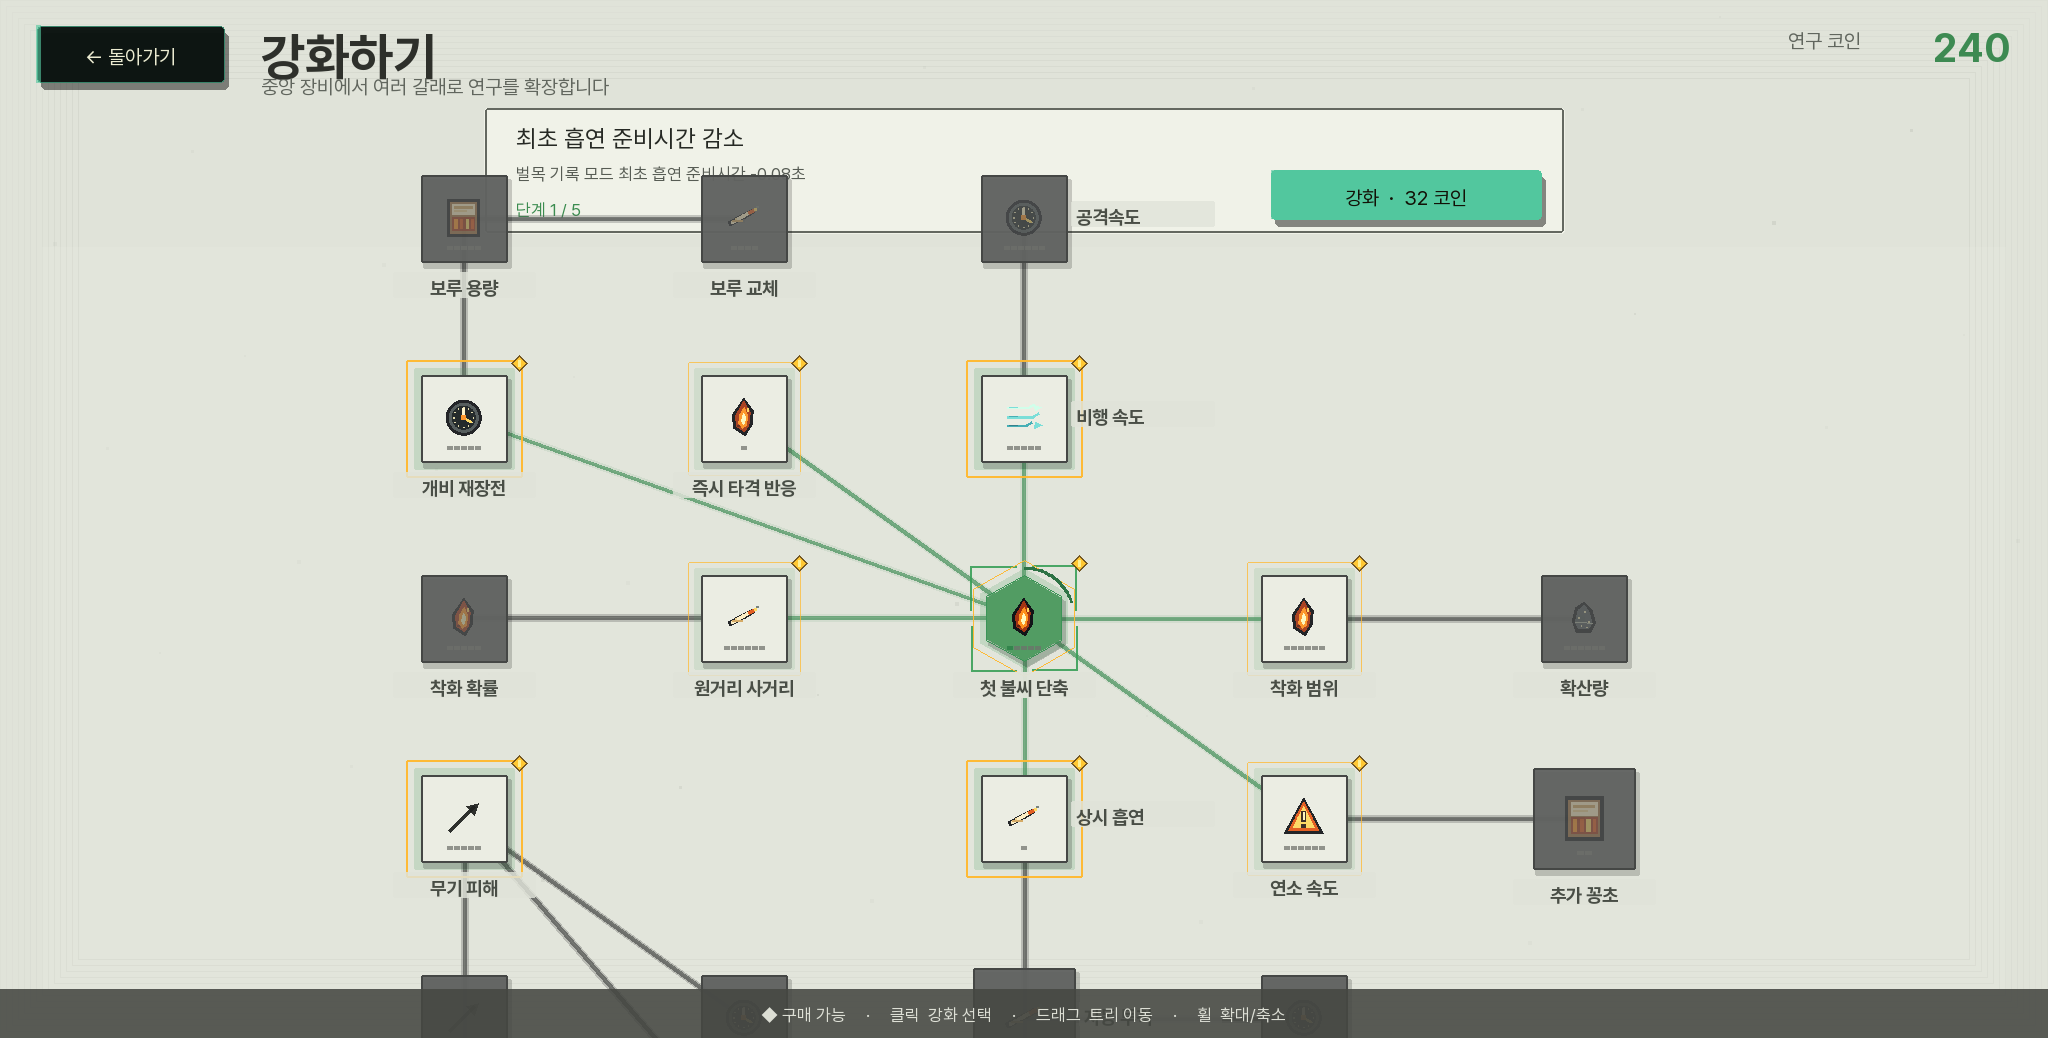
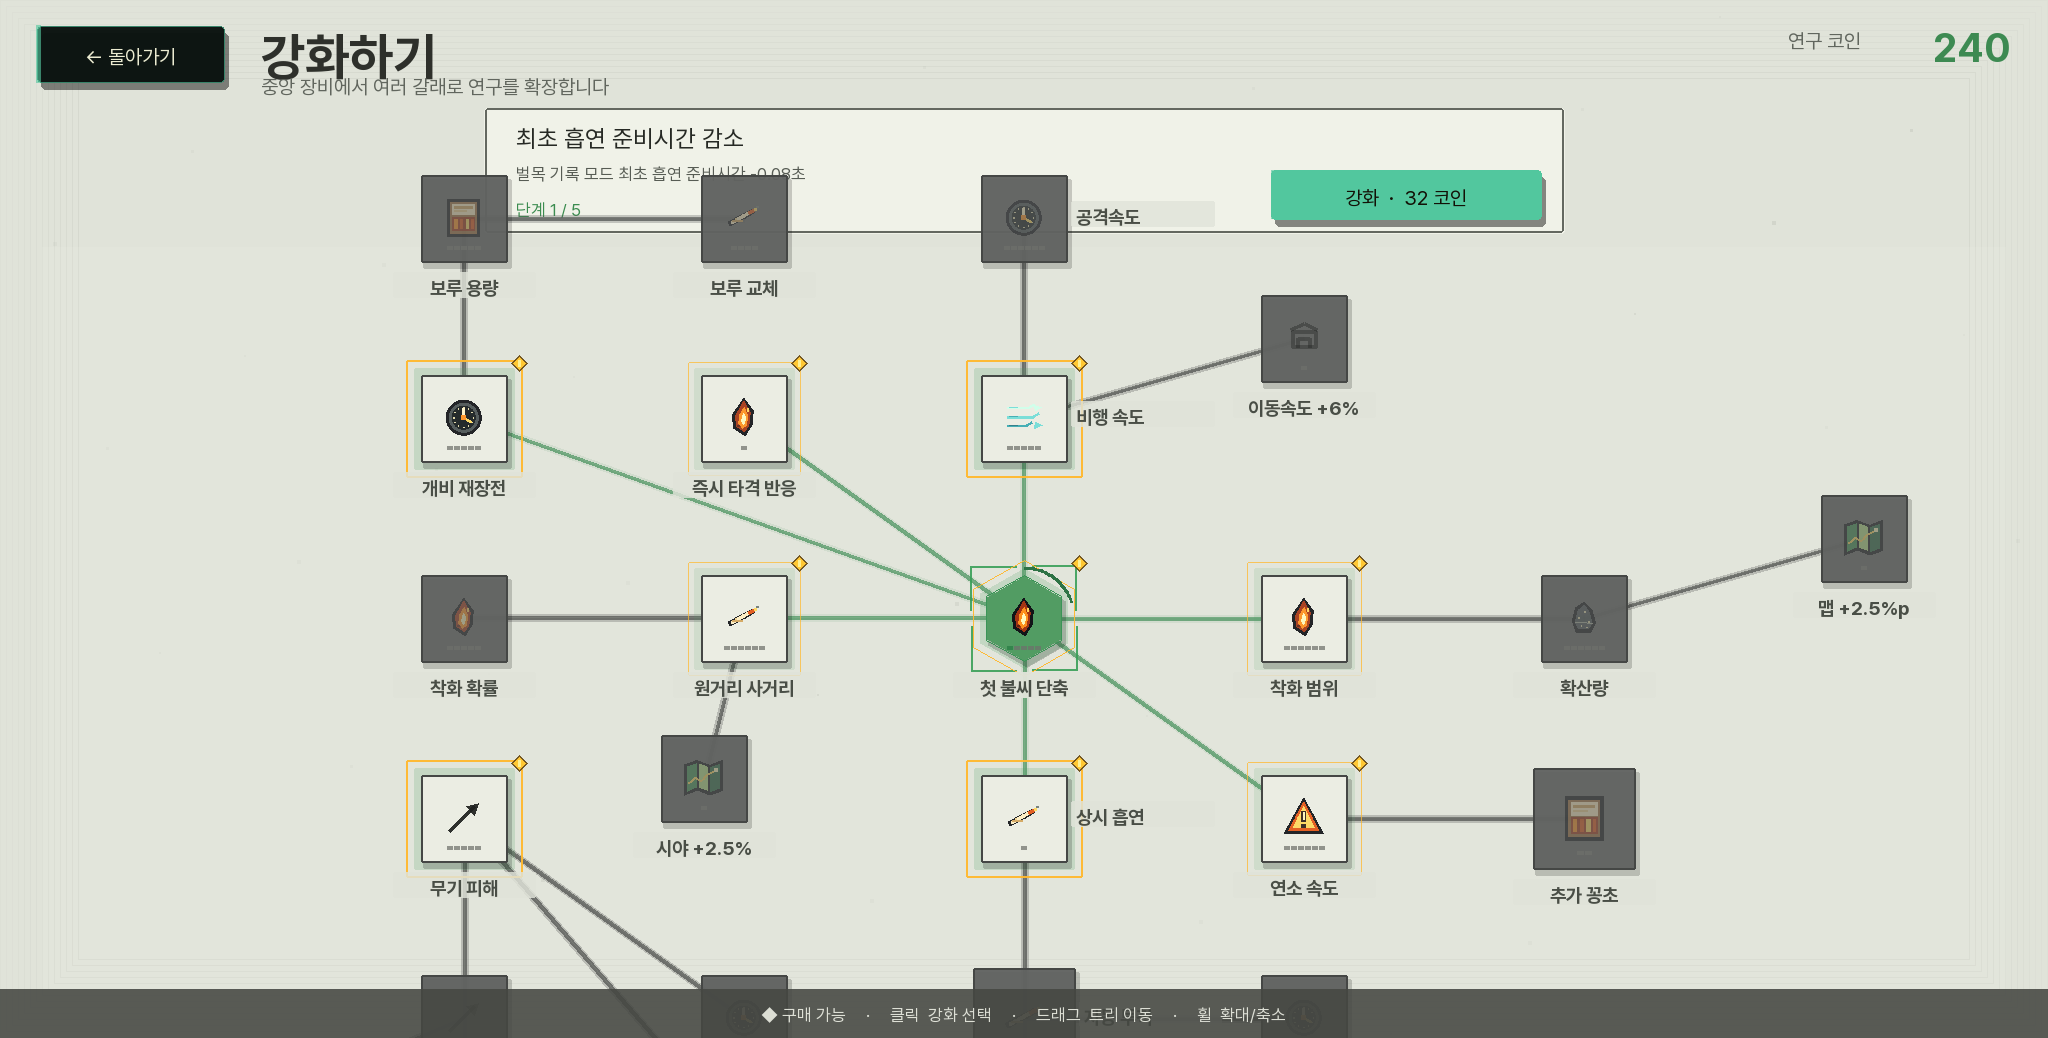
Distribute spatial upgrades across research tree

diff --git a/docs/character_dossier.html b/docs/character_dossier.html
@@ -507,13 +507,16 @@ const TRAITS = {
       {id:"fire_score_impact",name:"꽁초 즉시 타격 반응",short:"즉시 타격 반응",desc:"꽁초 착지 즉시 최근접 대상 1개를 점화하고 짧은 정지·반동·전용 타격음을 적용합니다.",max:1,costs:[32],requires:[["fire_score_prewarm",1]]},
       {id:"fire_score_alwayssmoke",name:"상시 흡연",short:"상시 흡연",desc:"근접 도끼질이나 폭죽 공격 중에도 담배 재장전이 계속됩니다.",max:1,costs:[200],requires:[["fire_score_prewarm",1]]},
       {id:"fire_score_filter",name:"원거리 무기 사거리 상승",short:"원거리 사거리",desc:"원거리 무기 사거리 +16",max:6,costs:[18,32,50,74,104,142],requires:[["fire_score_prewarm",1]]},
+      {id:"fire_score_view_1",name:"카메라 시야 확장",short:"시야 +2.5%",desc:"게임 화면에 보이는 월드 범위가 2.5% 넓어집니다.",max:1,costs:[46],requires:[["fire_score_filter",2]]},
       {id:"fire_score_lighter",name:"착화 범위 상승",short:"착화 범위",desc:"꽁초가 불씨를 옮기는 착화 반경 +12",max:6,costs:[18,32,50,74,104,142],requires:[["fire_score_prewarm",1]]},
       {id:"fire_score_reload",name:"개비 재장전 속도 상승",short:"개비 재장전",desc:"담배 한 개비를 무는 재장전 시간이 단계마다 8% 단축됩니다. (기본 1.25초, 하한 0.75초 — 하한도 함께 내려갑니다)",max:5,costs:[20,34,54,78,108],requires:[["fire_score_prewarm",1]]},
       {id:"fire_score_carton_size",name:"보루 개비 수 증가",short:"보루 용량",desc:"보루 하나에 담기는 담배가 단계마다 6개비 늘어납니다. 보루를 다 피울 때만 오는 긴 재장전이 그만큼 드물어집니다. (기본 20개비)",max:5,costs:[24,42,64,92,126],requires:[["fire_score_reload",2]]},
       {id:"fire_score_carton_reload",name:"보루 교체 속도 상승",short:"보루 교체",desc:"보루를 다 피우고 새 보루를 뜯는 긴 재장전이 단계마다 12% 단축됩니다. (기본 4.4초, 하한 2.4초 — 하한도 함께 내려갑니다)",max:4,costs:[30,52,80,116],requires:[["fire_score_carton_size",2]]},
       {id:"fire_score_spark",name:"꽁초 착화 확률 상승",short:"착화 확률",desc:"꽁초의 착화 성공 확률 +1.2%p",max:5,costs:[18,32,50,74,104],requires:[["fire_score_filter",2]]},
       {id:"fire_score_launch",name:"꽁초 비행 속도 상승",short:"비행 속도",desc:"꽁초 비행 속도 +7%",max:5,costs:[18,32,50,74,104],requires:[["fire_score_filter",1]]},
+      {id:"fire_score_stride_2",name:"작업자 이동속도 상승",short:"이동속도 +6%",desc:"작업자 이동속도 +6%",max:1,costs:[54],requires:[["fire_score_launch",2]]},
       {id:"fire_score_ash",name:"불 확산량 상승",short:"확산량",desc:"불붙은 나무가 옮겨붙이는 기대 그루 +0.17 (만렙 1.45그루 — 1.00을 넘으면 산불이 스스로 번집니다)",max:6,costs:[18,32,50,74,104,142],requires:[["fire_score_lighter",2]]},
+      {id:"fire_score_yard_2",name:"작업 구역 확장",short:"맵 +2.5%p",desc:"이동 가능한 맵 크기가 2.5% 넓어지고 나무 허용량이 4그루 증가합니다.",max:1,costs:[58],requires:[["fire_score_ash",2]]},
       {id:"fire_score_drag",name:"무기 공격속도 상승",short:"공격속도",desc:"무기 공격속도 +4%",max:6,costs:[18,32,50,74,104,142],requires:[["fire_score_spark",2],["fire_score_launch",2]]},
       {id:"fire_score_heat",name:"연소속도 상승",short:"연소 속도",desc:"불이 나무를 태우는 주기 6% 단축 (기본 1초마다 4피해, 연소 3.6초)",max:6,costs:[18,32,50,74,104,142],requires:[["fire_score_launch",2],["fire_score_ash",2]]},
       {id:"fire_score_stock",name:"추가 꽁초 투척",short:"추가 꽁초",desc:"투척할 때 추가 꽁초 +1 (자동 투척에도 그대로 적용됩니다)",max:2,costs:[180,310],requires:[["fire_score_drag",3],["fire_score_heat",3]],capstone:true},
@@ -521,6 +524,7 @@ const TRAITS = {
       {id:"fire_score_axe_area",name:"도끼 타격 범위 상승",short:"도끼 범위",desc:"도끼의 조준 포착 범위와 주변 타격 범위 +9",max:5,costs:[18,32,50,74,104],requires:[["fire_score_edge",1]]},
       {id:"fire_score_axe_speed",name:"도끼 공격속도 상승",short:"도끼 공속",desc:"도끼 연속 타격 속도 +7%",max:5,costs:[18,32,50,74,104],requires:[["fire_score_edge",1]]},
       {id:"fire_score_axe_targets",name:"도끼 동시 타격 나무 +1",short:"동시 타격",desc:"한 번의 도끼질이 조준 범위 안의 나무를 단계마다 1그루 더 때립니다",max:2,costs:[96,158],requires:[["fire_score_axe_area",3]]},
+      {id:"fire_score_yard_4",name:"작업 구역 확장",short:"맵 +2.5%p",desc:"이동 가능한 맵 크기가 2.5% 넓어지고 나무 허용량이 4그루 증가합니다.",max:1,costs:[126],requires:[["fire_score_axe_area",3]]},
       {id:"fire_score_axe_execute",name:"도끼 밑동 절단 확률 상승",short:"즉시 벌목",desc:"도끼 타격이 단계마다 3% 확률로 나무를 체력과 무관하게 즉시 쓰러뜨립니다",max:4,costs:[54,84,120,164],requires:[["fire_score_axe_speed",3]]},
       {id:"fire_score_axe_shock",name:"도끼 충격파",short:"충격파",desc:"나무를 쓰러뜨리면 주변 나무에 단계마다 2 피해를 줍니다. 범위는 단계마다 34 넓어집니다.",max:3,costs:[90,150,230],requires:[["fire_score_axe_targets",2]]},
       {id:"fire_score_axe_chain",name:"연속 벌목",short:"연속 벌목",desc:"나무를 쓰러뜨리면 단계마다 18% 확률로 도끼 재사용 대기시간이 즉시 초기화됩니다.",max:3,costs:[90,150,230],requires:[["fire_score_axe_execute",3]]},
@@ -531,6 +535,8 @@ const TRAITS = {
       {id:"fire_score_rocket_radius",name:"폭죽 폭발 반경 상승",short:"폭발 반경",desc:"폭죽 로켓의 폭발 반경 +16",max:5,costs:[18,32,50,74,104],requires:[["fire_score_rocket_unlock",1]]},
       {id:"fire_score_rocket_damage",name:"폭죽 폭발 피해 상승",short:"폭발 피해",desc:"폭죽 폭발이 나무에 주는 피해 +2",max:5,costs:[18,32,50,74,104],requires:[["fire_score_rocket_unlock",1]]},
       {id:"fire_score_rocket_speed",name:"폭죽 비행 속도 상승",short:"비행 속도",desc:"폭죽 로켓이 목표까지 날아가는 속도 +12%",max:4,costs:[22,38,58,82],requires:[["fire_score_rocket_radius",2]]},
+      {id:"fire_score_view_3",name:"카메라 시야 확장",short:"시야 +2.5%",desc:"게임 화면에 보이는 월드 범위가 2.5% 넓어집니다.",max:1,costs:[146],requires:[["fire_score_rocket_speed",2]]},
+      {id:"fire_score_yard_6",name:"작업 구역 확장",short:"맵 +2.5%p",desc:"이동 가능한 맵 크기가 2.5% 넓어지고 나무 허용량이 4그루 증가합니다.",max:1,costs:[196],requires:[["fire_score_rocket_radius",3]]},
       {id:"fire_score_rocket_ignite",name:"폭죽 착탄 점화 확률 상승",short:"착탄 점화",desc:"폭발로 쓰러지지 않은 나무에 불이 붙을 확률 +6%p (기본 38%)",max:5,costs:[18,32,50,74,104],requires:[["fire_score_rocket_radius",3]]},
       {id:"fire_score_rocket_cooldown",name:"폭죽 발사 속도 상승",short:"발사 속도",desc:"폭죽 로켓 재발사 대기시간 단계마다 9% 감소",max:5,costs:[18,32,50,74,104],requires:[["fire_score_rocket_damage",3]]},
       {id:"fire_score_rocket_twin",name:"폭죽 쌍발 발사대",short:"동시 2발",desc:"폭죽을 조준점 좌우로 동시에 2발 발사합니다.",max:1,costs:[240],requires:[["fire_score_rocket_speed",4],["fire_score_rocket_cooldown",3]]},
@@ -541,6 +547,8 @@ const TRAITS = {
       {id:"fire_score_flame_damage",name:"화염 피해 상승",short:"화염 피해",desc:"화염이 나무에 주는 초당 피해 +1 (기본 초당 3)",max:5,costs:[30,52,80,116,158],requires:[["fire_score_flame_unlock",1]]},
       {id:"fire_score_flame_range",name:"화염 분사 거리 상승",short:"분사 거리",desc:"화염이 닿는 거리 +26 (기본 250)",max:5,costs:[26,46,72,104,142],requires:[["fire_score_flame_unlock",1]]},
       {id:"fire_score_flame_width",name:"화염 기둥 굵기 상승",short:"기둥 굵기",desc:"화염 기둥의 전체 폭 +28 (기본 폭 144)",max:4,costs:[34,58,88,126],requires:[["fire_score_flame_unlock",1]]},
+      {id:"fire_score_stride_4",name:"작업자 이동속도 상승",short:"이동속도 +6%",desc:"작업자 이동속도 +6%",max:1,costs:[260],requires:[["fire_score_flame_range",3]]},
+      {id:"fire_score_yard_7",name:"작업 구역 확장",short:"맵 +2.5%p",desc:"이동 가능한 맵 크기가 2.5% 넓어지고 나무 허용량이 4그루 증가합니다.",max:1,costs:[310],requires:[["fire_score_flame_width",3]]},
       {id:"fire_score_flame_ignite",name:"화염 착화 확률 상승",short:"착화 확률",desc:"화염에 닿아 있는 나무가 초당 불붙을 확률 +8%p (기본 18%)",max:4,costs:[38,64,98,140],requires:[["fire_score_flame_range",2],["fire_score_flame_width",2]]},
     ]
   },
@@ -711,16 +719,21 @@ const TRAITS = {
       {id:"universal_lumberbonus",name:"목재 획득량 상승",short:"목재 획득량",desc:"목재 획득량 +12%",max:3,costs:[36,62,94],requires:[["universal_shuttle",1]]},
       {id:"universal_afforestation",name:"스테이지 시작 나무 증가",short:"시작 나무 증가",desc:"스테이지 진행마다 나무 +6그루(스테이지 배수)",max:3,costs:[36,62,94],requires:[["universal_shuttle",1]]},
       {id:"universal_seedbank",name:"다수 수종 생성",short:"다수 수종",desc:"벌목지에 더 값나가는 수종이 함께 자란다",max:1,costs:[135],requires:[["universal_afforestation",1]]},
-      {id:"universal_yard",name:"나무 허용량 증가",short:"허용량 증가",desc:"벌목 기록 모드의 나무 허용량 +4그루",max:7,costs:[16,26,40,58,80,108,142]},
+      {id:"universal_yard",name:"작업 구역 확장",short:"맵 +2.5%p",desc:"이동 가능한 맵 크기가 2.5% 넓어지고 나무 허용량이 4그루 증가합니다.",max:1,costs:[16]},
+      {id:"universal_stride",name:"작업자 이동속도 상승",short:"이동속도 +6%",desc:"작업자 이동속도 +6%",max:1,costs:[14]},
       {id:"universal_robot_start",name:"아기 로봇 기본 지급",short:"로봇 기본 지급",desc:"벌목 기록 모드를 아기 운반 로봇 Lv.1로 시작",max:1,costs:[42]},
       {id:"universal_robot_motor",name:"아기 로봇 이동속도 상승",short:"로봇 이동속도",desc:"아기 운반 로봇 이동속도 +10%",max:5,costs:[22,38,58,82,112],requires:[["universal_robot_start",1]]},
+      {id:"universal_yard_3",name:"작업 구역 확장",short:"맵 +2.5%p",desc:"이동 가능한 맵 크기가 2.5% 넓어지고 나무 허용량이 4그루 증가합니다.",max:1,costs:[92],requires:[["universal_robot_motor",2]]},
+      {id:"universal_stride_3",name:"작업자 이동속도 상승",short:"이동속도 +6%",desc:"작업자 이동속도 +6%",max:1,costs:[118],requires:[["universal_robot_motor",3]]},
       {id:"universal_oil_drum",name:"기름 드럼통 생성",short:"드럼통 생성",desc:"벌목 기록 모드에서 22초마다 기름 드럼통이 떨어집니다. 도끼로 두 번 타격하면 반경 180 안에 검은 기름 픽셀이 매번 다른 형태로 튑니다.",max:1,costs:[64],requires:[["universal_robot_start",1]]},
       {id:"universal_oil_interval",name:"드럼통 등장 주기",short:"등장 주기 감소",desc:"단계마다 기름 드럼통 등장 주기가 2초 감소합니다.",max:3,costs:[38,64,96],requires:[["universal_oil_drum",1]]},
       {id:"universal_oil_radius",name:"기름 살포 거리",short:"살포 거리 상승",desc:"기본 살포 반경은 180이며, 단계마다 기름 픽셀이 튀는 최대 거리가 30 증가합니다.",max:5,costs:[28,46,70,100,138],requires:[["universal_oil_interval",1]]},
+      {id:"universal_view_4",name:"카메라 시야 확장",short:"시야 +2.5%",desc:"게임 화면에 보이는 월드 범위가 2.5% 넓어집니다.",max:1,costs:[220],requires:[["universal_oil_radius",3]]},
       {id:"universal_oil_splash_count",name:"기름 튐 개수",short:"기름 자국 증가",desc:"단계마다 서로 다른 검은 기름 자국이 3개 더 생성되어 빈틈이 줄어듭니다.",max:4,costs:[30,50,76,108],requires:[["universal_oil_radius",1]]},
       {id:"universal_oil_patch_scale",name:"기름 자국 크기",short:"자국 크기 상승",desc:"단계마다 개별 기름 자국의 픽셀 면적과 실제 타격 반경이 8% 증가합니다.",max:4,costs:[34,56,84,118],requires:[["universal_oil_splash_count",1]]},
       {id:"universal_oil_ignition_radius",name:"기름 인화 범위 상승",short:"인화 범위 상승",desc:"단계마다 담배꽁초가 기름 자국에 불을 붙이는 거리가 16 증가합니다.",max:4,costs:[34,56,84,118],requires:[["universal_oil_radius",2]]},
       {id:"universal_oil_duration",name:"기름 지속시간",short:"지속시간 상승",desc:"단계마다 검은 기름 자국의 지속시간이 3초 증가합니다.",max:4,costs:[28,46,70,100],requires:[["universal_oil_drum",1]]},
+      {id:"universal_yard_5",name:"작업 구역 확장",short:"맵 +2.5%p",desc:"이동 가능한 맵 크기가 2.5% 넓어지고 나무 허용량이 4그루 증가합니다.",max:1,costs:[160],requires:[["universal_oil_duration",2]]},
       {id:"universal_oil_burn_duration",name:"기름 발화 지속시간 상승",short:"발화 지속시간",desc:"단계마다 기름 자국 위에 생성된 불꽃 오브젝트의 유지시간이 1.5초 증가합니다.",max:4,costs:[40,66,98,138],requires:[["universal_oil_duration",2]]},
       {id:"universal_oil_damage",name:"기름 피해",short:"기름 피해 상승",desc:"단계마다 불붙은 기름의 나무 및 적 피해가 1 증가합니다.",max:5,costs:[42,66,96,132,174],requires:[["universal_oil_patch_scale",2],["universal_oil_duration",2]]},
       {id:"universal_gray_cat",name:"회색 고양이 동료",short:"고양이 동료 해금",desc:"드럼통마다 기본 35% 확률로 회색 고양이가 2.2초 뒤 출동해 드럼통을 밀어 넘어뜨립니다. 사용자가 먼저 부수면 출동을 취소합니다.",max:1,costs:[92],requires:[["universal_oil_drum",1]]},
@@ -731,6 +744,7 @@ const TRAITS = {
       {id:"universal_mole_companion",name:"두더지 동료 해금",short:"두더지 해금",desc:"벌목 기록 모드에 두더지 동료 1마리가 합류합니다.",max:1,costs:[78],requires:[["universal_robot_start",1]]},
       {id:"universal_mole_damage",name:"두더지 피해 상승",short:"피해 상승",desc:"두더지 발톱 피해가 단계마다 1 증가합니다.",max:3,costs:[30,48,72],requires:[["universal_mole_companion",1]]},
       {id:"universal_mole_speed",name:"두더지 이동속도 상승",short:"이동속도 상승",desc:"두더지 이동속도가 단계마다 10% 증가합니다.",max:3,costs:[26,44,66],requires:[["universal_mole_companion",1]]},
+      {id:"universal_view_2",name:"카메라 시야 확장",short:"시야 +2.5%",desc:"게임 화면에 보이는 월드 범위가 2.5% 넓어집니다.",max:1,costs:[104],requires:[["universal_mole_speed",2]]},
       {id:"universal_mole_attack_speed",name:"두더지 공격속도 상승",short:"공격속도 상승",desc:"두더지 공격속도가 단계마다 12% 증가합니다.",max:3,costs:[32,52,78],requires:[["universal_mole_companion",1]]},
       {id:"universal_mole_claw",name:"두더지 공격범위 상승",short:"공격범위 상승",desc:"두더지의 공격 가능 거리와 발톱 자국 크기가 단계마다 증가합니다.",max:2,costs:[56,92],requires:[["universal_mole_damage",2]]},
       {id:"universal_mole_dual",name:"두더지 양손 공격",short:"양손 공격",desc:"두더지가 한 번의 공격에 양손 발톱 자국을 남깁니다.",max:1,costs:[125],requires:[["universal_mole_claw",2]]},

diff --git a/docs/SYSTEM_MAP.md b/docs/SYSTEM_MAP.md
@@ -38,7 +38,9 @@
 
 1단계가 ×1.00이라 초반 밸런스는 그대로다. **배수는 개당 코인에 곱하지 않고 `재생 단계 보너스`라는 별도 정산 행으로 뺀다.** 활엽수는 개당 2코인이라 ×1.15를 곱하면 2.3 → 2로 반올림에 먹혀 1단계와 수입이 같아진다. 별도 행이면 반올림 손실이 없고, 정산 연출에서 보너스가 직접 세어져 **단계를 올릴 이유가 플레이어에게 그대로 보인다.**
 
-벌목 기록 모드의 월드와 이동 가능 영역은 보존된 캠페인 맵 규격의 **가로·세로 70%**를 사용한다. 온대 숲 기준 월드 `2240×1400`, 시작 플레이 영역 `1680×980`이며 지역별 해안 반경과 북쪽 카메라 여백도 같은 비율로 축소한다.
+벌목 기록 모드의 월드와 이동 가능 영역은 보존된 캠페인 맵 규격의 **가로·세로 70%**에서 시작한다. 온대 숲 기준 월드 `2240×1400`, 시작 플레이 영역 `1680×980`이다. 서로 다른 테크에 분산 배치된 `작업 구역 확장` 7개를 열 때마다 원본 맵 배율이 2.5%p씩 올라 최대 **87.5%**(`2800×1750`, 플레이 영역 `2100×1225`)까지 실제 이동·생성 구역이 넓어진다. 지역별 해안 반경과 북쪽 카메라 여백도 같은 배율을 쓴다.
+
+이 확장은 한 노드의 7단계를 연속 구매하지 않는다. 담배 확산, 로봇, 도끼, 기름통, 폭죽, 화염방사기 갈래 사이에 각각 1레벨 노드로 흩어져 있다. 작업자 이동속도 `+6%` 네 번과 카메라 시야 `+2.5%` 네 번도 같은 원칙으로 초·중·후반 테크에 분산한다. 전부 열면 이동속도는 `+24%`, 화면에 보이는 월드 범위는 약 `+10%`다.
 
 ---
 
@@ -282,9 +284,10 @@
 | 두더지 | 7 | 15 | 1,089 |
 | 화염방사기 | 5 | 19 | 1,852 |
 | 고양이 | 5 | 15 | 992 |
-| 운영 | 5 | 19 | 8,282 |
+| 운영 | 3 | 8 | 7,680 |
 | 로봇 | 2 | 6 | 354 |
-| **합계** | **69** | **239** | **28,833** |
+| 공간·이동 *(각 단계 분산)* | 15 | 15 | 1,920 |
+| **합계** | **82** | **243** | **30,151** |
 
 ### 루트 노드 — 첫 판에 갈 수 있는 곳
 
@@ -293,8 +296,8 @@
 | 노드 | 첫 비용 | 여는 갈래 |
 |---|---:|---|
 | 나무 피해 상승 | 16 | 도끼·폭죽·불 공용 (도끼 갈래 입구) |
-| 나무 허용량 증가 | 16 | 운영 |
-| 작업자 이동속도 상승 | 14 | 운영 (모든 빌드에 즉시 체감) |
+| 작업 구역 확장 | 16 | 공간·이동 (맵 +2.5%p · 허용량 +4) |
+| 작업자 이동속도 상승 | 14 | 공간·이동 (초반 +6%, 나머지는 다른 갈래에 분산) |
 | 최초 흡연 준비시간 감소 | 18 | 담배 |
 
 ### 후반 목표 — 코인으로는 못 여는 문
@@ -331,7 +334,7 @@
 ```text
 초당 재생    = 0.14 × 1.75^(단계−1) × 2^(플레이 초/30)
 나무 HP 배율 = 1.03^(단계−1)
-허용량       = 12 + 부지 확장(최대 +28) + 작업장 확장 카드(최대 +3)
+허용량       = 12 + 작업 구역 확장 7개(각 +4, 최대 +28) + 작업장 확장 카드(최대 +3)
 ```
 
 | 재생 단계 | 초당 재생 | HP 배율 |
